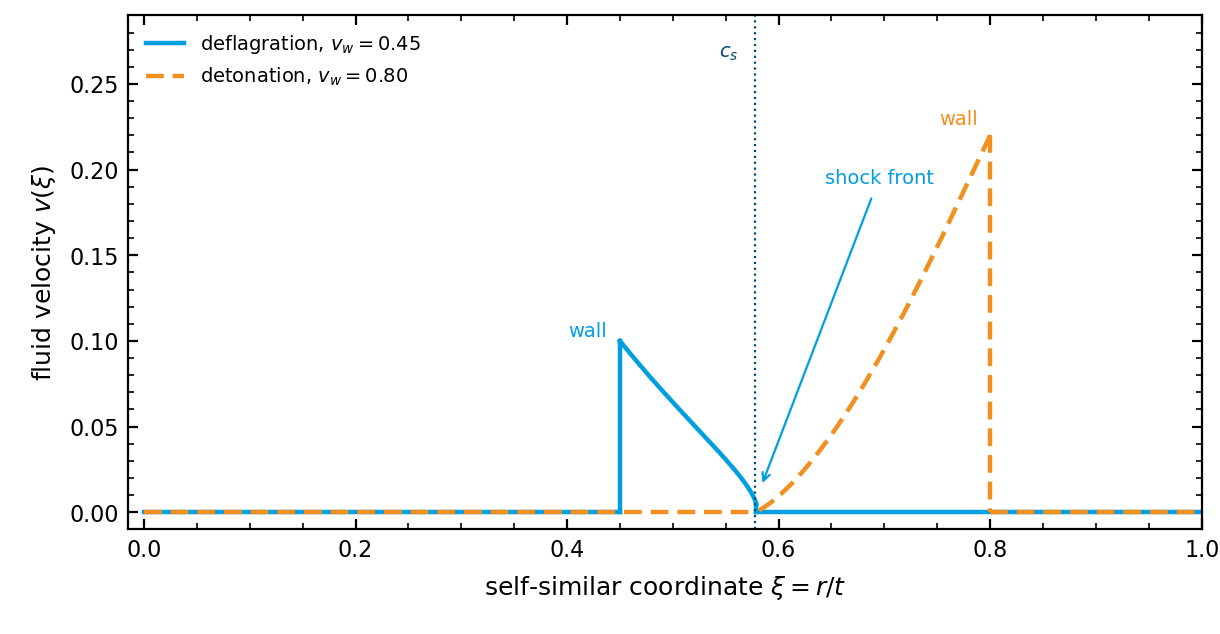
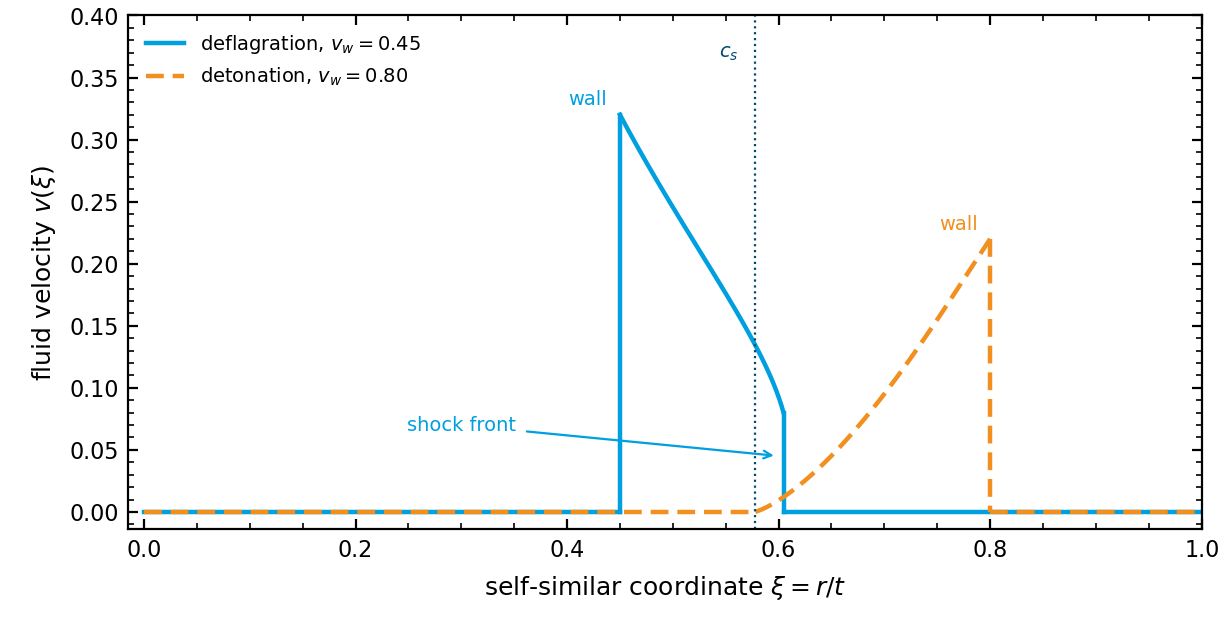
Fix five figures the sanity check found wrong, and the captions that described them

diff --git a/docs/make_algorithm_figures.py b/docs/make_algorithm_figures.py
@@ -168,32 +168,46 @@ def figure_images() -> None:
     use_house_style()
     fig, ax = plt.subplots(figsize=(WIDTH, 0.52 * WIDTH))
 
-    # A potential even in the field has two images of every broken minimum. The tracer follows
-    # whichever one the numerical step lands on, which can differ between the two phases.
-    T = np.linspace(0.0, 1.0, 400)
-    broken = 1.6 * np.sqrt(np.clip(1.0 - T ** 2, 0.0, None))
+    # The broken minimum of the same potential as the figure of V against temperature, traced
+    # in temperature. It is a FIRST-order branch: the field value at the critical temperature
+    # is nonzero, the two phases coexist above it, and the branch ends at the spinodal
+    # temperature where the barrier disappears, rather than going continuously to zero. A
+    # branch that vanished at T_c would be a second-order transition, where there is no bounce
+    # to compute and so nothing for this figure to be about.
+    D, E, lam = 0.50, 0.30, 0.60
+    T2c = E ** 2 / (D * lam)
+    T_sp = np.sqrt(9.0 * E ** 2 / (8.0 * lam * D) / T2c)
+
+    T = np.linspace(0.0, T_sp, 500)
+    disc = np.clip(9.0 * E ** 2 - 8.0 * lam * D * T ** 2 * T2c, 0.0, None)
+    broken = (3.0 * E + np.sqrt(disc)) / (2.0 * lam)
 
     ax.plot(T, broken, color=DESYcyan, lw=1.8)
     ax.plot(T, -broken, color=DESYcyan, lw=1.8, ls=(0, (4, 3)))
+    ax.plot([T_sp], [broken[-1]], "o", color=DESYcyan, ms=4)
+    ax.plot([T_sp], [-broken[-1]], "o", color=DESYcyan, ms=4, mfc="none")
     ax.axhline(0.0, color=DESYdunkelblau, lw=1.4)
+    ax.axvline(1.0, color="0.75", lw=0.6, ls=":", zorder=0)
 
-    ax.annotate("", xy=(0.45, 1.43), xytext=(0.45, 0.0),
+    ax.annotate("", xy=(0.55, 1.12), xytext=(0.55, 0.0),
                 arrowprops=dict(arrowstyle="->", color=DESYorange, lw=1.6))
-    ax.annotate("", xy=(0.45, -1.43), xytext=(0.45, 0.0),
+    ax.annotate("", xy=(0.55, -1.12), xytext=(0.55, 0.0),
                 arrowprops=dict(arrowstyle="->", color=DESYaubergine, lw=1.6,
                                 linestyle=(0, (3, 2))))
 
-    ax.text(0.03, 1.15, "broken phase", color=DESYcyan, fontsize=7, va="center")
-    ax.text(0.03, -1.15, "its mirror image", color=DESYcyan, fontsize=7, va="center")
-    ax.text(0.03, 0.14, "symmetric phase", color=DESYdunkelblau, fontsize=7, va="center")
-    ax.text(0.50, 0.80, "the channel", color=DESYorange, fontsize=7, va="center")
-    ax.text(0.50, -0.80, "not a channel", color=DESYaubergine, fontsize=7, va="center")
+    ax.text(0.04, 1.40, "broken phase", color=DESYcyan, fontsize=7, va="center")
+    ax.text(0.04, -1.40, "its mirror image", color=DESYcyan, fontsize=7, va="center")
+    ax.text(0.04, 0.16, "symmetric phase", color=DESYdunkelblau, fontsize=7, va="center")
+    ax.text(0.62, 0.70, "the channel", color=DESYorange, fontsize=7, va="center")
+    ax.text(0.62, -0.70, "not a channel", color=DESYaubergine, fontsize=7, va="center")
+    ax.text(0.985, 1.60, r"$T_{\rm c}$", color="0.45", fontsize=7, ha="right", va="top")
 
     ax.set_xlabel(r"temperature $T/T_{\rm c}$")
     ax.set_ylabel(r"field $\phi$")
-    ax.set_xlim(0.0, 1.0)
+    ax.set_xlim(0.0, 1.18)
     ax.set_ylim(-1.75, 1.75)
     fig.subplots_adjust(left=0.105, right=0.985, bottom=0.165, top=0.975)
+    _check(fig, "algorithm_images")
     fig.savefig(OUT / "algorithm_images.png", dpi=200)
     plt.close(fig)
     print("wrote", OUT / "algorithm_images.png")
@@ -205,7 +219,7 @@ def figure_plasma_dof() -> None:
 
     # The dispatchers, not the two fits directly: each fit is valid on one side of the seam
     # at 0.12 GeV only, and below it the high-temperature one returns nonsense.
-    T = np.logspace(-4.0, 4.0, 1600)
+    T = np.logspace(-6.0, 4.0, 2000)
     g_rho = td.e_geffSM_fit(T, 1.0)
     g_s = td.s_geffSM_fit(T, 1.0)
 
@@ -220,6 +234,18 @@ def figure_plasma_dof() -> None:
     ax.axvline(0.12, color="0.75", lw=0.6, ls=":", zorder=0)
     ax.text(0.105, 96.0, "seam between the two fits", color="0.45", fontsize=7,
             ha="right", va="center")
+    # The two counts differ by 0.48 at the coldest temperatures, which is 0.4 % of this
+    # panel's range, so the inset is the only place it can be seen.
+    inset = ax.inset_axes([0.085, 0.40, 0.26, 0.34])
+    low = T < 3.0e-3
+    inset.plot(T[low], g_rho[low], color=DESYcyan, lw=1.2)
+    inset.plot(T[low], g_s[low], color=DESYorange, lw=1.2, ls=(0, (3, 1.6)))
+    inset.set_xscale("log")
+    inset.set_xlim(1e-6, 3e-3)
+    inset.set_ylim(2.8, 11.5)
+    inset.tick_params(labelsize=6, direction="in", top=True, right=True)
+    inset.set_xticks([1e-6, 1e-4])
+    inset.minorticks_off()
     ax.set_xlim(0.6 * T[0], 1.6 * T[-1])
     ax.set_ylim(0.0, 125.0)
     ax.legend(frameon=False, loc="lower right")
@@ -242,10 +268,10 @@ def figure_potential_vs_temperature() -> None:
     phi = np.linspace(-0.30, 1.35, 800)
     D, E, lam = 0.50, 0.30, 0.60
     T2c = E ** 2 / (D * lam)
-    shades = [1.12, 1.00, 0.92, 0.80]
+    shades = [1.12, 1.00, 0.92, 0.86]
     colors = [DESYorange, DESYaubergine, DESYcyan, DESYdunkelblau]
-    labels = [r"$T > T_{\rm c}$", r"$T = T_{\rm c}$", r"$T < T_{\rm c}$",
-              r"$T \ll T_{\rm c}$"]
+    labels = [r"$T = 1.12\,T_{\rm c}$", r"$T = T_{\rm c}$", r"$T = 0.92\,T_{\rm c}$",
+              r"$T = 0.86\,T_{\rm c}$"]
     for frac, color, label in zip(shades, colors, labels):
         T2 = frac ** 2 * T2c
         V = D * T2 * phi ** 2 - E * phi ** 3 + 0.25 * lam * phi ** 4
@@ -255,7 +281,7 @@ def figure_potential_vs_temperature() -> None:
     ax.set_xlabel(r"field $\phi$")
     ax.set_ylabel(r"$V(\phi, T) - V(0, T)$")
     ax.set_xlim(phi[0], phi[-1])
-    ax.set_ylim(-0.040, 0.030)
+    ax.set_ylim(-0.058, 0.030)
     ax.legend(frameon=False, loc="upper left", ncol=2)
     fig.subplots_adjust(left=0.125, right=0.985, bottom=0.155, top=0.975)
     _check(fig, "algorithm_potential_vs_temperature")
@@ -298,7 +324,7 @@ def figure_fluid_profiles() -> None:
 
     # A deflagration: the fluid inside the bubble is at rest, the wall pushes the plasma ahead
     # of it, and the disturbance ends at a shock front where the velocity drops to zero.
-    vw_d, v0_d = 0.45, 0.10
+    vw_d, v0_d = 0.45, 0.32
     xi_d, v_d = flow(vw_d, v0_d)
     ax.plot([0.0, vw_d], [0.0, 0.0], color=DESYcyan, lw=1.6)
     ax.plot([vw_d, vw_d], [0.0, v0_d], color=DESYcyan, lw=1.6)
@@ -317,18 +343,18 @@ def figure_fluid_profiles() -> None:
     ax.plot([vw_t, 1.0], [0.0, 0.0], color=DESYorange, lw=1.6, ls=(0, (4, 2)))
 
     ax.axvline(cs, color=DESYdunkelblau, lw=0.8, ls=":")
-    ax.text(cs - 0.015, 0.268, r"$c_s$", color=DESYdunkelblau, fontsize=7,
+    ax.text(cs - 0.015, 0.370, r"$c_s$", color=DESYdunkelblau, fontsize=7,
             ha="right", va="center")
-    ax.annotate("shock front", xy=(xi_d[-1] + 0.004, 0.014), xytext=(0.695, 0.195),
+    ax.annotate("shock front", xy=(xi_d[-1] - 0.004, 0.045), xytext=(0.300, 0.070),
                 color=DESYcyan, fontsize=7, ha="center", va="center",
                 arrowprops=dict(arrowstyle="->", color=DESYcyan, lw=0.8))
-    ax.text(vw_d - 0.012, 0.100, "wall", color=DESYcyan, fontsize=7, ha="right", va="bottom")
+    ax.text(vw_d - 0.012, 0.325, "wall", color=DESYcyan, fontsize=7, ha="right", va="bottom")
     ax.text(vw_t - 0.012, 0.224, "wall", color=DESYorange, fontsize=7, ha="right",
             va="bottom")
     ax.set_xlabel(r"self-similar coordinate $\xi = r/t$")
     ax.set_ylabel(r"fluid velocity $v(\xi)$")
     ax.set_xlim(-0.015, 1.0)
-    ax.set_ylim(-0.010, 0.29)
+    ax.set_ylim(-0.014, 0.40)
     ax.legend(frameon=False, loc="upper left")
     fig.subplots_adjust(left=0.105, right=0.985, bottom=0.165, top=0.975)
     _check(fig, "algorithm_fluid_profiles")
@@ -341,9 +367,19 @@ def figure_spectrum_sources() -> None:
     """The three sources and their sum, from the code's own templates."""
     from transitionlistener.gwfopt import FOPTspectrum
 
-    params = dict(alpha=0.2, RH=0.05, Treh_SM_GeV=100.0, g_eff_tot_reh=100.0,
-                  h_eff_tot_reh=100.0, kappa_phi=0.02, kappa_sw=0.35, kappa_turb=0.035,
-                  v_wall=0.65, c_s=1.0 / np.sqrt(3.0))
+    from transitionlistener.hydrodynamics import kappa_sw
+
+    # The sound-wave efficiency is the package's own fit at this strength and wall velocity,
+    # not a number chosen for the picture: passing 0.35 where the fit gives 0.549 draws the
+    # amplitude a factor two low. The turbulent fraction is the usual tenth of it. The
+    # collision efficiency is set by hand, because for a wall the plasma holds back it is
+    # zero and the template would have nothing to draw.
+    alpha, v_wall = 0.2, 0.65
+    cs = 1.0 / np.sqrt(3.0)
+    k_sw = kappa_sw(alpha, v_wall, cs)
+    params = dict(alpha=alpha, RH=0.05, Treh_SM_GeV=100.0, g_eff_tot_reh=100.0,
+                  h_eff_tot_reh=100.0, kappa_phi=0.02, kappa_sw=k_sw,
+                  kappa_turb=0.1 * k_sw, v_wall=v_wall, c_s=cs)
     spec = FOPTspectrum(params)
 
     f = np.logspace(-5.0, 0.0, 600)

diff --git a/docs/source/algorithms/hydrodynamics.rst b/docs/source/algorithms/hydrodynamics.rst
@@ -122,12 +122,16 @@ A root of that residual is the wall velocity. The implementation follows [vandeV
    :width: 100%
    :align: center
 
-   The flow the equations above produce, integrated with the module's own ``dfdv``. A wall
-   slower than the sound speed drives the plasma ahead of it and the disturbance ends at a
-   shock front, while the fluid inside the bubble stays at rest. A wall faster than the Jouguet
+   The flow the equations above produce, integrated with the module's own ``dfdv`` and its
+   own shock condition. A wall slower than the sound speed drives the plasma ahead of it and
+   the disturbance ends at a shock front, which is supersonic and so sits outside the sound
+   speed, while the fluid inside the bubble stays at rest. A wall faster than the Jouguet
    velocity outruns any signal, so the plasma ahead is undisturbed and a rarefaction behind the
-   wall carries the velocity back to zero at the speed of sound. The shooting above drives the
-   residual at the shock front to zero.
+   wall carries the velocity back to zero exactly at the speed of sound. The shooting above
+   drives the residual at the shock front to zero. The two curves are two different
+   transitions, as they have to be: the junction condition puts the deflagration at
+   :math:`\alpha = 0.18` and the detonation at :math:`\alpha = 0.087`, each with a root on its
+   own branch and none on the other, and :math:`v_{\rm J} = 0.77` at the second of those.
 
 Runaway, and no solution
 ~~~~~~~~~~~~~~~~~~~~~~~~

diff --git a/docs/source/algorithms/the_spectrum.rst b/docs/source/algorithms/the_spectrum.rst
@@ -178,9 +178,14 @@ eddy turnovers and :math:`v_A = \sqrt{3\Omega_s/4}` is the Alfvén velocity.
 
    The three templates and their sum, built with the package's own ``FOPTspectrum`` at
    :math:`\alpha = 0.2`, :math:`R_* = 0.05`, :math:`v_w = 0.65` and
-   :math:`T_{\rm reh} = 100` GeV. The sound waves dominate, which is the usual case, so the sum
-   lies on top of them. Their spectrum has the two breaks of the double broken power law with
-   the shallower slope between them; the other two sources have one break each.
+   :math:`T_{\rm reh} = 100` GeV, with the sound-wave efficiency taken from
+   ``hydrodynamics.kappa_sw`` at that strength and wall velocity and the turbulent one a tenth
+   of it. The collision efficiency is set by hand, since for a wall the plasma holds back it is
+   zero and there would be nothing to draw. The sound waves dominate, which is the usual case,
+   so the sum lies on top of them. Their spectrum rises as :math:`f^3`, turns over to
+   :math:`f` between the two breaks and falls as :math:`f^{-3}`; with the breaks a factor
+   twenty-two apart the middle segment is short, and what the eye reads is the change of
+   curvature rather than a straight piece.
 
 Observability
 -------------

diff --git a/docs/source/algorithms/the_plasma.rst b/docs/source/algorithms/the_plasma.rst
@@ -81,9 +81,14 @@ continues to supply the light species at the temperature in question.
 
    The Standard Model bath as the package tabulates it. The step near 0.2 GeV is the
    quark-gluon plasma turning into hadrons and the one near 100 GeV is the electroweak scale.
-   The two counts separate below the quark-hadron step, where the neutrinos no longer share the
-   photons' temperature. The two fits meet at 0.12 GeV, and the small discontinuity there
-   belongs to the fits and not to the physics.
+   The plateau at high temperature sits at 104.1 rather than the free-field 106.75, because
+   the fit carries the interaction correction to the quark-gluon free energy. The two counts
+   differ wherever a species is neither relativistic nor gone, which is at and above the
+   quark-hadron step, by at most 6.7 per cent at 0.2 GeV. Below about 0.5 MeV they part
+   permanently, since the neutrinos no longer share the photons' temperature after electrons
+   and positrons annihilate; the inset shows that, since 3.38 against 3.93 is half a per cent
+   of the main panel. The two fits meet at 0.12 GeV, and the small discontinuity there belongs
+   to the fits and not to the physics.
 
 In the code
 -----------

diff --git a/docs/source/algorithms/phases_and_transitions.rst b/docs/source/algorithms/phases_and_transitions.rst
@@ -55,7 +55,10 @@ step and carries no physical meaning.
 
    A potential even in the field has two images of every broken minimum, and which one a trace
    lands on is settled by the sign of a numerical step. A bounce computed from the symmetric
-   phase to the image the field does not occupy is not a tunnelling channel.
+   phase to the image the field does not occupy is not a tunnelling channel. The broken branch
+   is drawn for a first-order transition, so it reaches the critical temperature at a field
+   value well away from zero, survives above it while the symmetric phase is still the deeper
+   one, and ends where the barrier between the two disappears.
 
 This matters because a bounce is computed between two phases. If the two sit on different
 images, the path between them crosses field space from one copy of the vacuum to another copy
